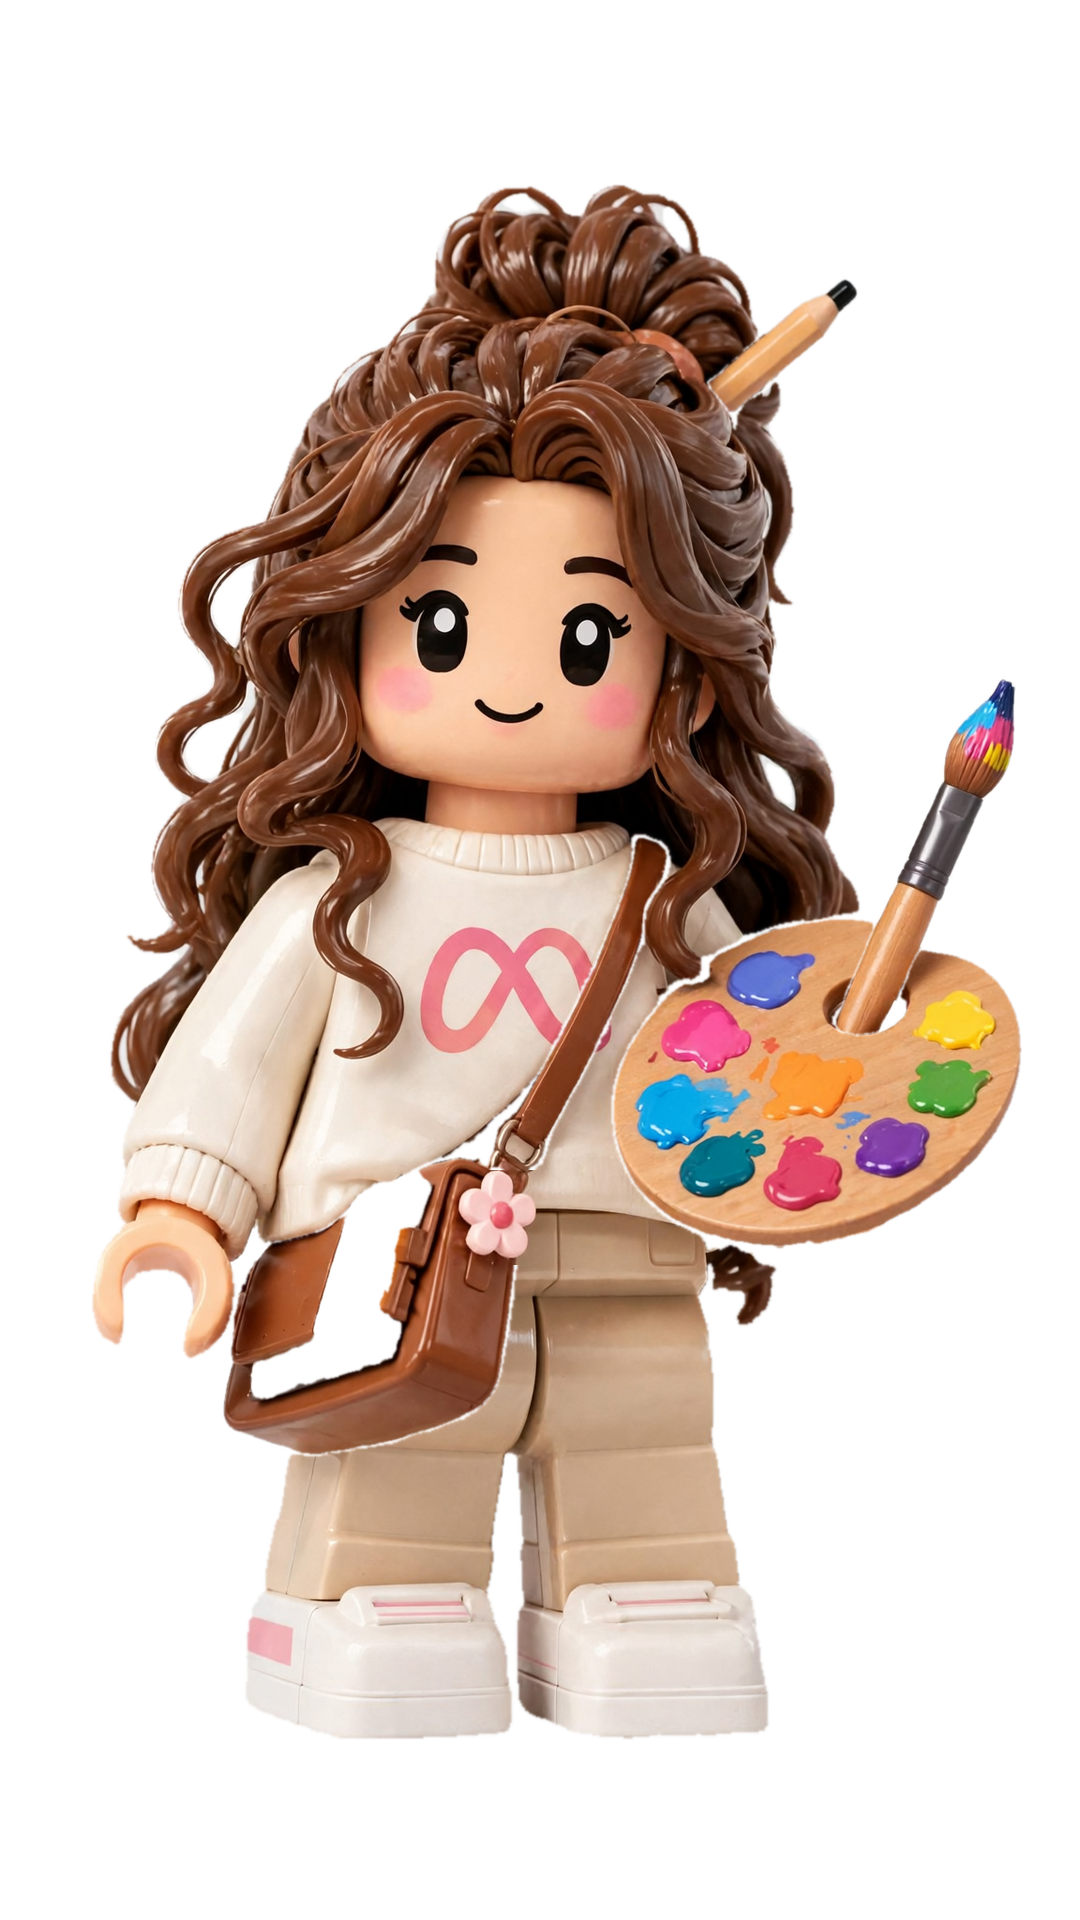
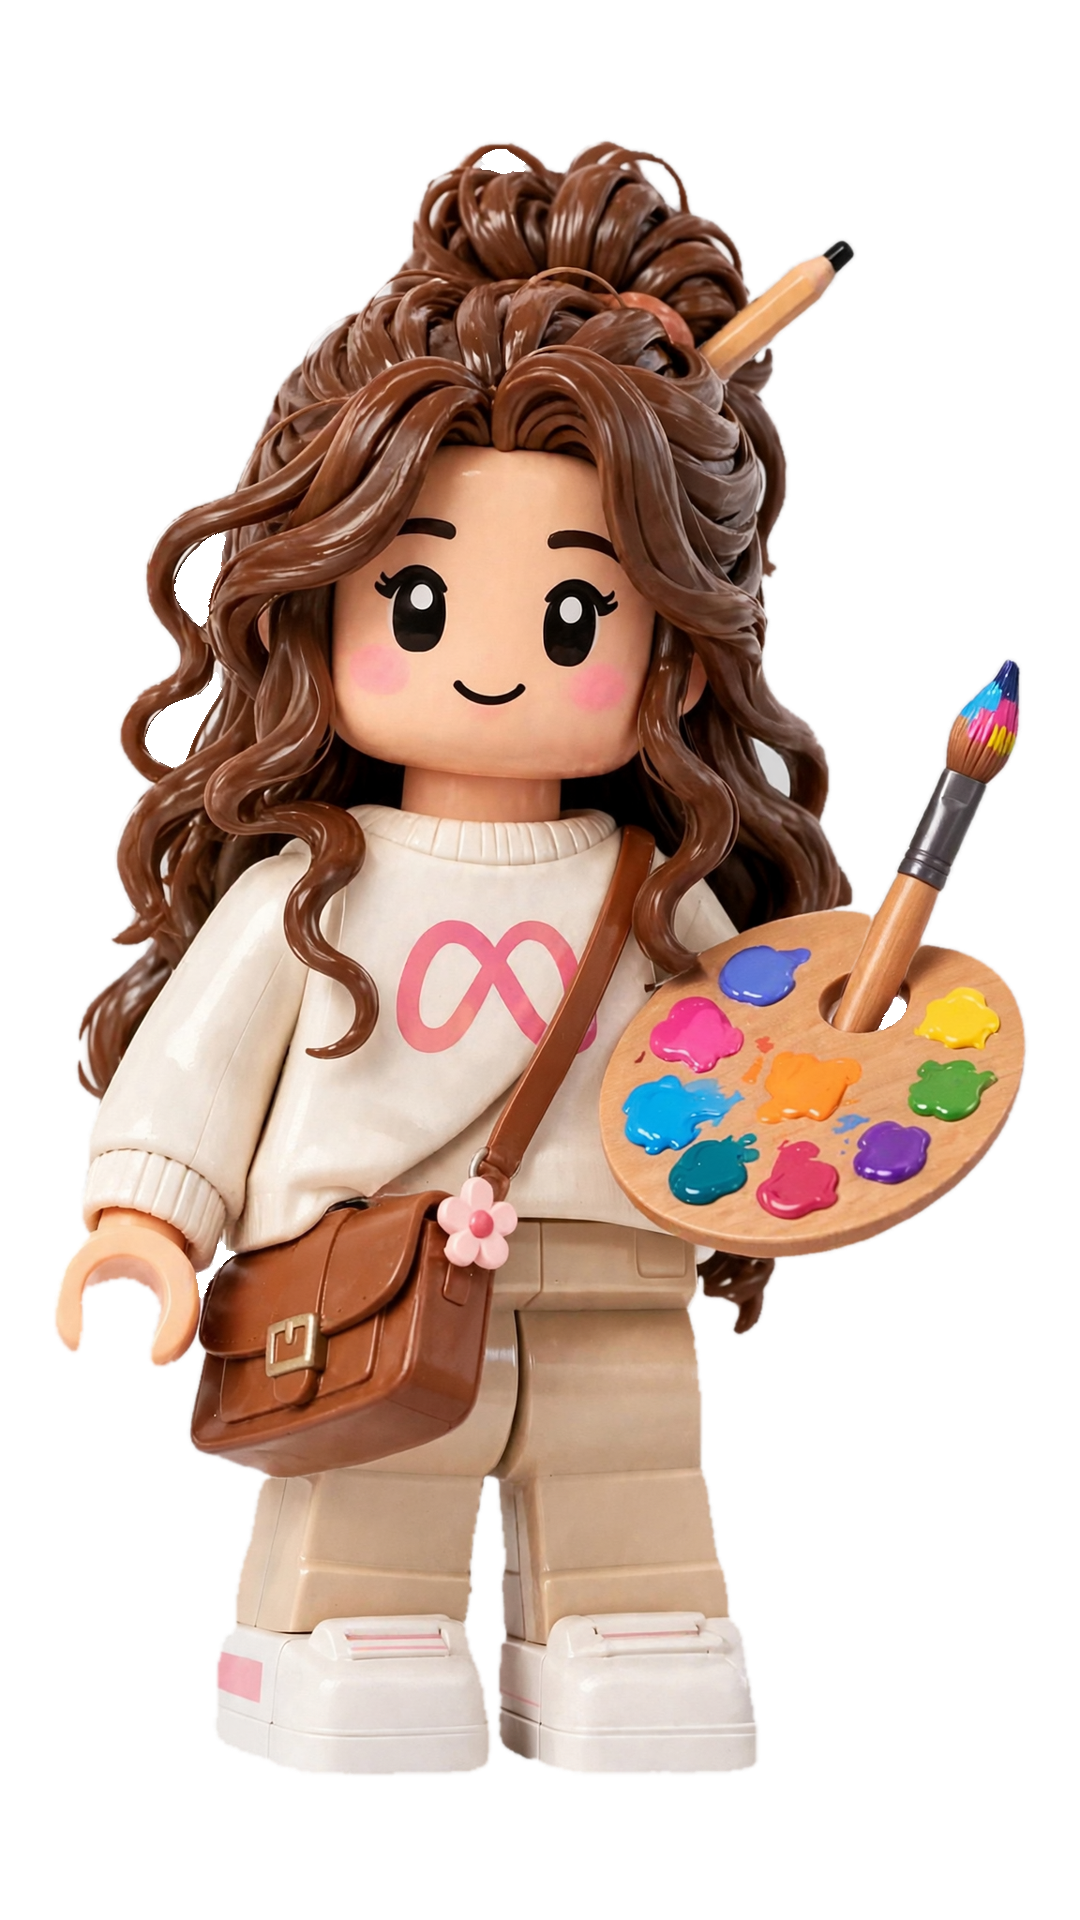
Redraw Iris with Muse Image: a closed satchel with its flower charm
SAM 3.1's mask dropped the charm, so the backdrop key is kept for her too; grey backdrop
left between her curls was cleared by hand (only patches ringed by hair). Earlier
portraits kept as iris-v1.png (the charm) and iris-v2.png (the satchel).

Changed region(s): [[0.0306, 0.0625, 0.9472, 0.9375]]

diff --git a/experiments/mascot_portraits.py b/experiments/mascot_portraits.py
@@ -84,7 +84,7 @@ PROPS = {
 
 # SAM found no mask for Sam's tablet or Voice's microphone under any word we tried. For these
 # two, whatever stands out from the flat backdrop and touches SAM's figure is kept too.
-KEY = {"sam", "voice", "sef"}
+KEY = {"sam", "voice", "sef", "iris"}
 
 PROMPT = (
     "The same character as in the reference images, exactly the same design: same face, hair, "
